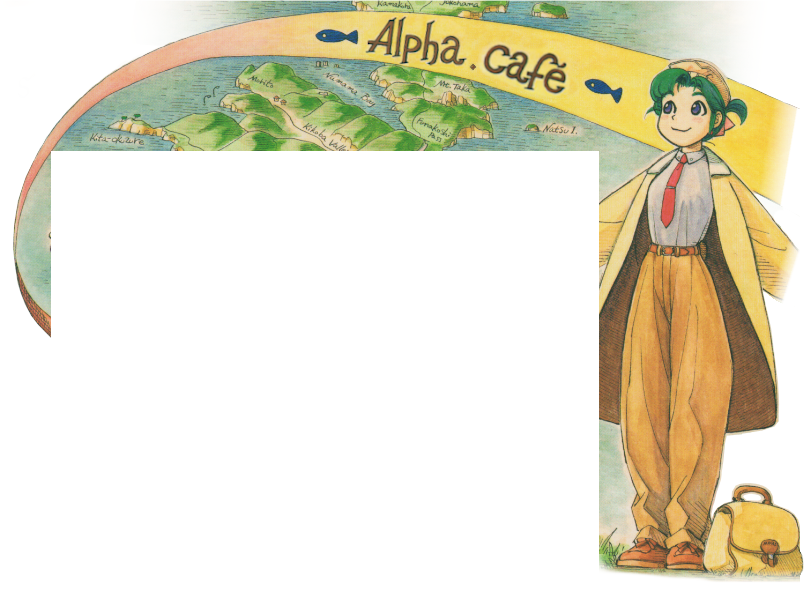
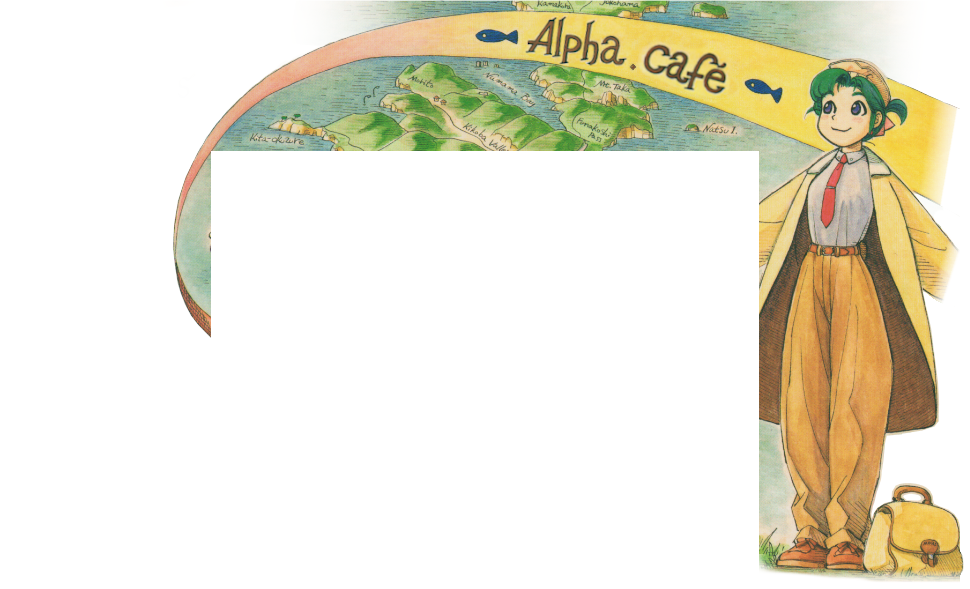
make everything responsive

diff --git a/main.scss b/main.scss
@@ -1,5 +1,6 @@
 // Imports
 @use 'css/reset'; // undo browser defaults
+@use "sass:math"; // currently relying on abs
 
 // content font
 @import url('https://fonts.googleapis.com/css2?family=Rubik&display=swap');
@@ -8,17 +9,29 @@
 // headings font
 @import url('https://fonts.googleapis.com/css2?family=Boogaloo&display=swap');
 
+
+// Sass variables used where needed for use inside
+// media query declarations
+$main_offset: -80px;
+$ribbon_extra_width: 30px;
+$site_width: 550px;
+
 :root {
 	--header_height: 120px;
 	--main_bg: #FFF;
 	--main_font: 'Rubik', sans-serif;
-	--main_offset: -80px;
+	--main_offset: #{$main_offset};
 	--main_title_color: #392713;
 	--main_title_font: 'Boogaloo', cursive;
 	--nav_bg: #DA9149;
 	--page_bg: #FAF9F3;
-	--site_width: 550px;
+	--ribbon_extra_width: #{$ribbon_extra_width};
+	--site_width: #{$site_width};
 	--title_shadow: #FFDF89;
+
+	@media (max-width: #{$site_width + 2 * math.abs($main_offset) + $ribbon_extra_width}) {
+		--main_offset: 0px;
+	}
 }
 
 html {
@@ -28,12 +41,17 @@ html {
 }
 
 body { // header image is set as body bg
-	background: url(./img/header_bg.png) no-repeat center top;
+	background: url(./img/header_bg.png) no-repeat calc(50% + var(--main_offset)) top;
 	font-family: var(--main_font);
 	height: auto;
 	min-height:100%;
+	overflow-x: hidden;
 	// create header area which is currently empty space
 	padding-top: var(--header_height);
+
+	@media (max-width: #{$site_width}) {
+		background-position: 70% top;
+	}
 }
 
 *::selection { // any selected text
@@ -53,20 +71,24 @@ nav {
 	background-image: url(./img/nav_texture.png);
 	box-shadow: 0px 3px 5px -2px rgba(0,0,0,0.75),
 	            0px -3px 5px -2px rgba(0,0,0,0.6);
+	// TODO: fixed burger for mobile?
 	display: flex; // neatly align navlinks
-	justify-content: space-between;
+	flex-wrap: wrap;
+	justify-content: space-around;
 	left: var(--main_offset);
 	line-height: 30px;
 	margin: auto;
-	padding: 0 20px;
+	max-width: calc(var(--site_width) + var(--ribbon_extra_width));
+	// padding: 0 20px; // for space-between
 	position: relative;
 	transform-style: preserve-3d; // needed over bare z-index here
-	width: calc(var(--site_width) + 30px);
+	width: 100%;
 	z-index: 2; // this lets its shadow be over the <main>
 
 	a { // TODO: hover effects
 		color: var(--main_bg);
 		font-family: 'Dosis', sans-serif;
+		padding: 0 5px;
 		text-shadow: 1px 1px 2px rgba(0, 0, 0, 0.7);
 	}
 
@@ -76,15 +98,19 @@ nav {
 		content: url(./img/ribbon_left.png);
 		filter: drop-shadow(0px -1px 3px rgba(0,0,0,0.6));
 		-webkit-filter: drop-shadow(0px -1px 3px rgba(0,0,0,0.6));
-		left: -30px;
+		left: calc(-1 * var(--ribbon_extra_width));
 		position: absolute;
 		top: 15px;
 		// this lets its shadow be under the nav
 		transform: translateZ(-1px); // needed over bare z-index here
+
+		@media (max-width: #{$site_width + $ribbon_extra_width + 12px}) {
+			display: none;
+		}
 	}
 
 	&::after {
-		right: -30px;
+		right: calc(-1 * var(--ribbon_extra_width));
 		// flip that same image
 		transform: scaleX(-1) translateZ(-1px); // also z-index fix here
 	}
@@ -100,17 +126,23 @@ main {
 	left: var(--main_offset);
 	margin: auto;
 	margin-bottom: 34px; // give empty space for footer image
+	max-width: var(--site_width);
 	// when main smaller than vh, ensure main still takes whole page
 	min-height: calc(100vh - 184px);
 	padding-bottom: 85px; // ensure no text is over footer kokone
 	position: relative;
-	text-shadow: // hide notebook lines under text
+	// I am hiding the notebook lines under the text
+	// using a strong white text-shadow.
+	// An alternative to this would be to wrap the text
+	// inside each <p> with an inline element (e.g. <span>)
+	// possessing background-color: white;.
+	text-shadow:
 		0px 2px 0 rgba(255, 255, 255, 1),
 		3px 2px 0 rgba(255, 255, 255, 1),
 		-3px 2px 0 rgba(255, 255, 255, 1),
 		2px 2px 0 rgba(255, 255, 255, 1),
 		-2px 2px 0 rgba(255, 255, 255, 1);
-	width: var(--site_width);
+	width: 100%;
 	z-index: 1; // needed for h2 hover effect
 }
 
@@ -119,8 +151,9 @@ h1 {
 	color: var(--main_title_color);
 	font-family: var(--main_title_font);
 	font-size: 26px;
-	margin-bottom: 41px; // alignment for notebook lines
-	padding-top: 6px; // ^
+	line-height: 26px;
+	margin-bottom: 40px; // alignment for notebook lines
+	padding: 6px 10px 0 10px;
 	position: relative;
 	text-align: center;
 	text-shadow: // text tower shadow effect
@@ -131,7 +164,7 @@ h1 {
 	// top: 10px; // creates effect i am leaning towards not keeping
 	z-index: 2;
 
-	// small alpha logo
+	// small alpha logo TODO: make it less intrusive when title on two lines
 	&::before {
 		content: url(./img/h1_logo.png);
 		display: inline-block;
@@ -149,10 +182,12 @@ h1 {
 		content: "";
 		display: block;
 		height: 44px;
+		left: 0px;
+		max-width: var(--site_width);
 		opacity: .7; // TODO: just change opacity on the image itself
 		position: absolute;
 		top: -2px; // TODO: just remove the 2 lines from the image
-		width: var(--site_width);
+		width: 100%;
 		z-index: -1;
 	}
 }
@@ -183,7 +218,7 @@ h2 {
 	margin-left: 8px;
 	margin-right: 5px;
 	margin-top: -3px; // notebook alignment
-	padding: 0 10px 0 80px; // leave space for heading logos
+	padding: 0 36px 0 80px; // leave space for heading logos
 	text-shadow: // highlighter
 		-12px 5px 6.8px rgba(255, 223, 137,0.7),
 		6px -4px 11px rgba(255, 255, 255,1),
@@ -195,7 +230,7 @@ h2 {
 		content: "";
 		display: inline-block;
 		height:16px;
-		margin-top: 4px;
+		top: calc(50% - 11px);
 		opacity: 0; // hidden unless heading is h overed
 		position: absolute;
 		right: 50px; // will slide further right on hover
@@ -205,7 +240,7 @@ h2 {
 
 	a.heading:hover &::after {
 		opacity: 1;
-		right: 30px;
+		right: calc(4% + 8px);
 		transition: 0.5s;
 	}
 
@@ -228,15 +263,17 @@ h2 {
 				rgba(245, 181, 117,0.3) 7.9%,
 				rgba(245, 181, 117,0) 15%
 			);
-		position: absolute;
+		border-radius: 7.5px; // highlighter
 		content: "";
 		display: block;
-		height: 24px;
-		width: 535px;
-		z-index: -1; // ensure the pseudoelement doesn't hide text
-		left: 10px;
-		transition: 0.3s;
+		height: 100% ;
+		left: 0;
+		margin-left: 8px;
 		opacity: 0;
+		position: absolute;
+		transition: 0.3s;
+		width: calc(100% - 15px);
+		z-index: -1; // ensure the pseudoelement doesn't hide text
 	}
 	a.heading:hover &::before {
 		opacity: 1; // when heading is hovered, new gradient fades in
@@ -244,6 +281,10 @@ h2 {
 }
 
 a.heading {
+	display: inline-block;
+	position: relative;
+	width: 100%;
+
 	// set different logo for each successive heading
 	@for $i from 1 through 3 { // TODO: create more than 3 logos
 		&:nth-of-type(#{$i})::before {
@@ -253,8 +294,8 @@ a.heading {
 
 	&::before { // logo positioning
 		left: 33px;
-		margin-top: -3px;
 		position: absolute;
+		top: calc(50% - 16px);
 		z-index: 2;
 	}
 
@@ -263,7 +304,7 @@ a.heading {
 main p { // mostly alignment for notebook lines
 	font-size: 14px;
 	line-height: 26px;
-	margin-bottom: 26px;
+	margin-bottom: 25.5px;
 	padding: 0 16px;
 	// I believe this is for the case I change text to be able to go
 	// over the footer image.
@@ -288,13 +329,16 @@ main::after {
 }
 
 // footer TEXT only
-footer.sitewide {
+footer.sitewide { // TODO: make more reactive once content has been decided
 	font-size: 13px;
+	left: var(--main_offset);
 	margin: auto;
 	margin-top: -100px;
+	max-width: var(--site_width);
+	padding-left: 100px;
 	position: relative;
 	text-align: center;
-	width: 400px;
+	width: 100%;
 	z-index: 4; // make sure the text is not covered by the landscape
 	            // potentially unneeded currently
 

diff --git a/index.htm b/index.htm
@@ -3,7 +3,7 @@
 	<head>
 		<meta charset="utf-8">
 		<meta name="viewport" content="width=device-width">
-		<link rel="stylesheet" href="./main.css" type="text/css" media="screen" charset="utf-8">
+		<link rel="stylesheet" href="./css/master.css" type="text/css" media="screen" charset="utf-8">
 
 		<title>Alpha Café, everything about YKK!</title>
 
